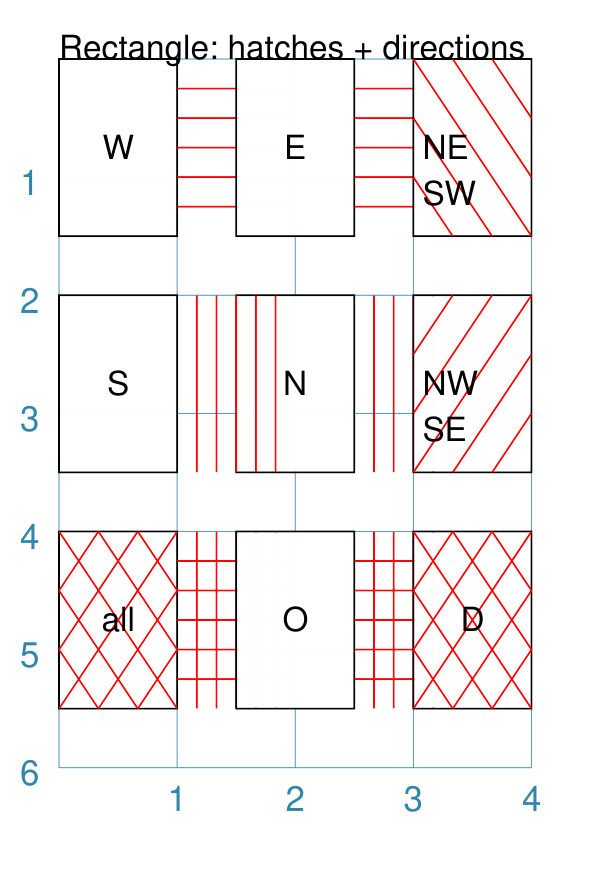
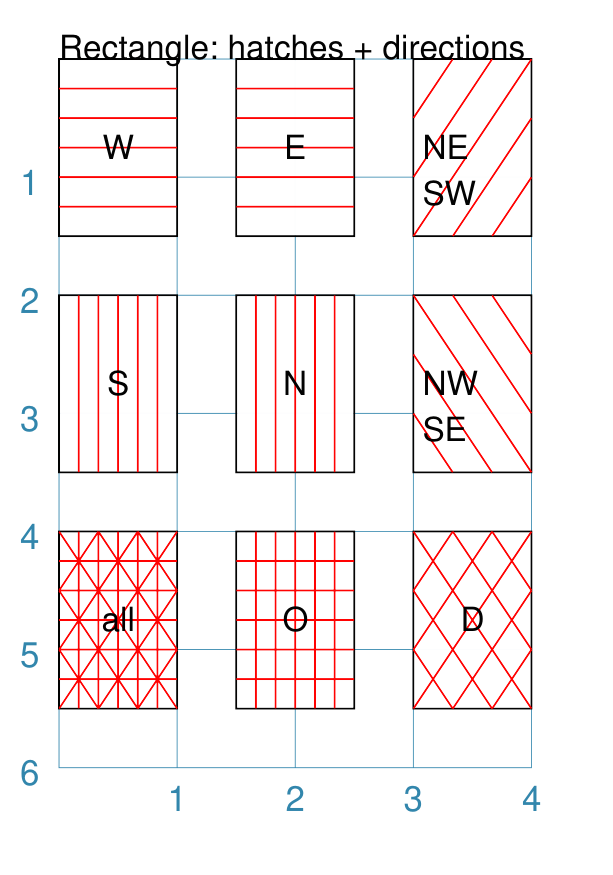
WIP on docs. Update new classic boards.

diff --git a/examples/boards/abstract/new_classics.py b/examples/boards/abstract/new_classics.py
@@ -103,8 +103,21 @@ Grid(
 Text(source, common=credit)
 PageBreak()
 '''
+
 # ---- .Cairo Corridor
+
 # ---- .Checkers
+Text("Checkers", common=title)
+Text(source, common=credit)
+place = Common(height=3, width=3, fill="#FFFA4F", stroke_width=2)
+tch = RectangularLocations(x=10.5, y=5, cols=4, rows=3, interval=3)
+Layout(tch, shapes=[rhombus(common=place)])
+tch = RectangularLocations(x=12, y=6.5, cols=4, rows=3, interval=3)
+Layout(tch, shapes=[rhombus(common=place)])
+edge = Common(height=3, width=3, fill="#FFC433", stroke_width=2)
+Repeat(rhombus(x=10.5, y=2, common=edge), interval=3, cols=4, rows=1)
+Repeat(rhombus(x=9, y=12.5, common=edge), interval=3, cols=4, rows=1)
+PageBreak()
 
 # ---- .Chinese Checkers
 CC_LINE = "#E4B700"
@@ -180,7 +193,22 @@ Sequence(
 PageBreak()
 
 # ---- .Joust (chess board)
+
 # ---- .King's Valley
+Text("King's Valley", common=title)
+Text(source, common=credit)
+brd = Common(cx=14.4, cy=10.4, radius=8, stroke_width=8)
+Circle(
+    common=brd,
+    fill="#FFDC85",
+    stroke="#CAB36E",
+    radii=steps(22, 355, 45),
+    radii_stroke="black",
+    radii_stroke_width=4,
+    rotation=15,
+)
+Circle(common=brd, stroke="#CAB36E", fill=None)
+PageBreak()
 
 # ---- .Mills
 Text("Mills", common=title)
@@ -246,7 +274,26 @@ Grid(
     side=2,
     fill="#63B0EB", stroke="#003F73"
 )
-# TODO => use layout for location for start
+rct = RectangularLocations(x=6.5, y=2, cols=9, rows=9, interval=2)
+place = Common(fill=None, stroke="white", stroke_width=3, dotted=True)
+Layout(
+    rct,
+    shapes=[square(common=place)],
+    locations=[
+        (5,1), (2,2), (5,2), (8,2), (3,3), (7,3),
+        (1,5), (2,5), (8,5), (9,5),
+        (5,9), (2,8), (5,8), (8,8), (3,7), (7,7),
+    ],
+)
+Layout(
+   rct,
+   shapes=[circle(common=place)],
+   locations=[
+       (4,4), (5,4), (6,4),
+       (4,5), (5,5), (6,5),
+       (4,6), (5,6), (6,6),
+   ]
+)
 PageBreak()
 
 # ---- .Sprouts (pen-and-paper)

diff --git a/examples/core/customised_rectangle.py b/examples/core/customised_rectangle.py
@@ -74,6 +74,17 @@ Rectangle(common=htch, x=3, y=4, hatches='d', label="D")
 
 PageBreak()
 
+# ---- hatches
+Blueprint()
+Text(common=txt, text="Rectangle: hatches; variable")
+Rectangle(
+    x=0.5, y=1,
+    height=4, width=3,
+    hatches=[('e', 2), ('d', 5)],
+    hatches_stroke_width=0.5,
+    hatches_stroke="red")
+PageBreak()
+
 # ---- perbii
 Blueprint()
 Text(common=txt, text="Rectangle: perbii + directions")
@@ -375,7 +386,7 @@ Save(
      names=[
         None,
         "centre", "notch", "dot_cross",
-        "hatches",
+        "hatches", "hatches_variable",
         "perbii",
         "radii",
         "rounding", "chevron",

diff --git a/protograf/layouts.py b/protograf/layouts.py
@@ -1243,7 +1243,7 @@ class RectangularLocations(VirtualLocations):
         else:
             self.interval_y = self.interval
         self.start = kwargs.get("start", "sw")
-        self.rectangle_validate(kwargs)
+        self.rectangle_validate(**kwargs)
         # ---- calculated values
         self.total_height = self.interval_x * (self.rows - 1)
         self.total_width = self.interval_y * (self.cols - 1)

diff --git a/docs/source/customised_shapes.rst b/docs/source/customised_shapes.rst
@@ -1092,6 +1092,7 @@ that it can be customised.
 - `Cross and Dot <rectCross_>`_
 - `Chevron <rectChevron_>`_
 - `Hatches <rectHatches_>`_
+- `Hatches: Variable <rectHatchesVariable_>`_
 - `Notch <rectNotch_>`_
 - `Peak <rectPeak_>`_
 - `Perbii <rectPerbii_>`_
@@ -1376,6 +1377,48 @@ of the Rectangle.
 
 ===== ======
 
+.. _rectHatchesVariable:
+
+Hatches: Variable
+-----------------
+`^ <rectangleIndex_>`_
+
+As described in section on `Hatches <rectHatches_>`_, these are normally
+spaced equally across the height or width of the Rectangle.
+
+However it is possible to vary the number of hatch lines for any direction,
+or set of directions, by changing the setting for the *hatches* property.
+
+This is illustrated in the example below.
+
+.. |rhv| image:: images/custom/rectangle/hatches_variable.png
+   :width: 330
+
+===== ======
+|rhv| This example shows a Rectangle constructed using these commands:
+
+      .. code:: python
+
+        Rectangle(
+            x=0.5, y=1,
+            height=4, width=3,
+            hatches=[('e', 2), ('d', 5)],
+            hatches_stroke_width=0.5,
+            hatches_stroke="red")
+
+      While other settings are similar to the previous example, in this
+      case the *hatches* property is in a list form, as shown by the square
+      brackets from ``[`` to ``]``, with each item in the list being a set
+      of two values.  These values are:
+
+      - firstly, the named direction, or directions,
+      - secondly, the number of lines to be drawn in that direction(s).
+
+      In this case, there are 2 lines in the ``east`` (horizontal) direction,
+      and 5 ``diagonal`` lines i.e. north-east and south-east.
+
+===== ======
+
 .. _rectNotch:
 
 Notch
@@ -1406,7 +1449,8 @@ Example 1. Size & Location
         )
         Rectangle(
             x=1, y=4, height=1, width=2,
-            label="notch:.25/.5 loc: NW, SE", label_size=5,
+            label="notch:.25/.5 loc: NW, SE",
+            label_size=5,
             notch_x=0.5, notch_y=0.25,
             notch_directions="NW SE",
         )
